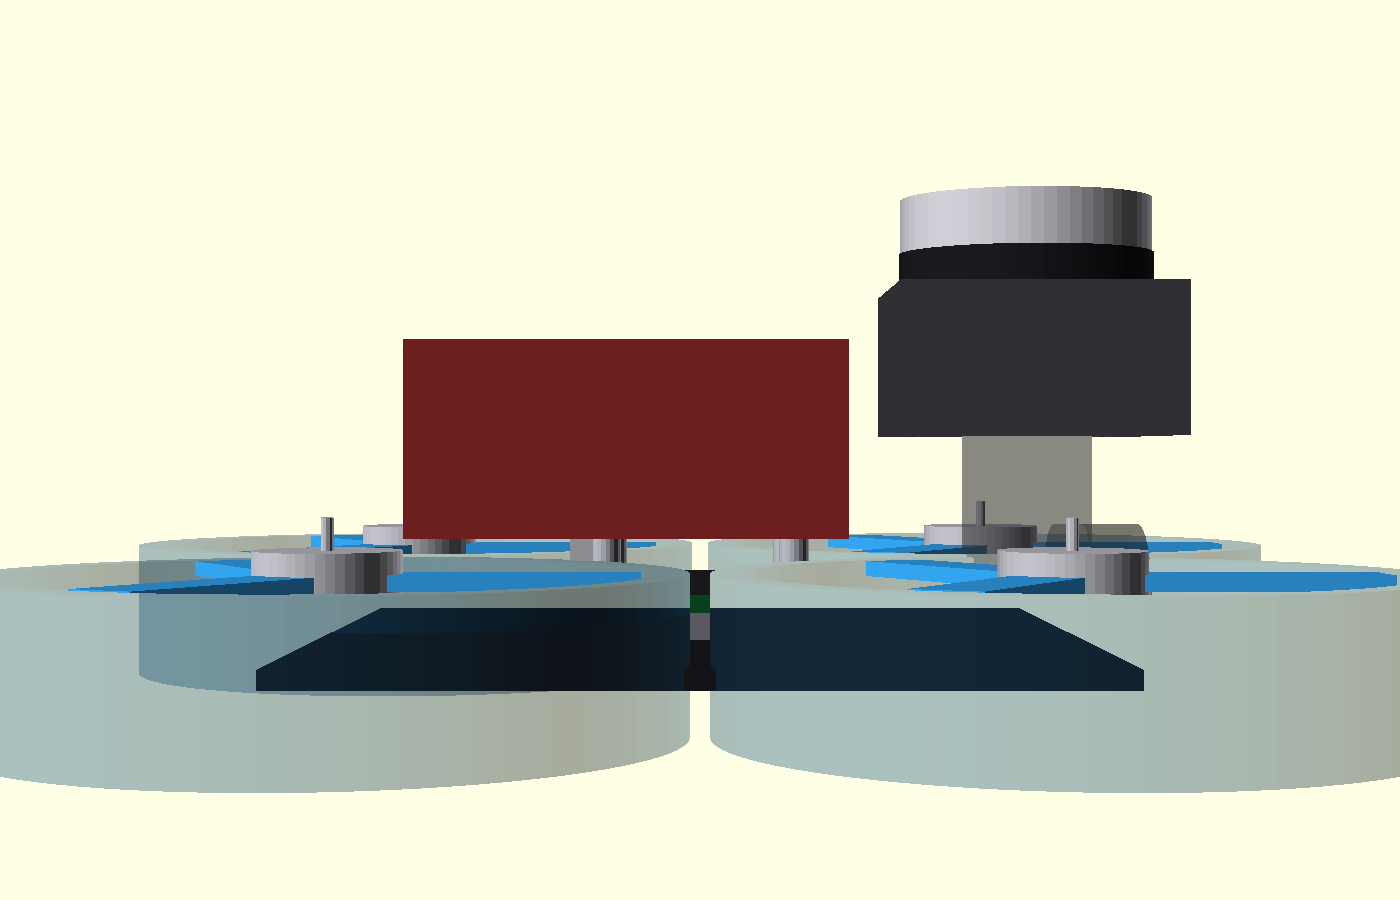
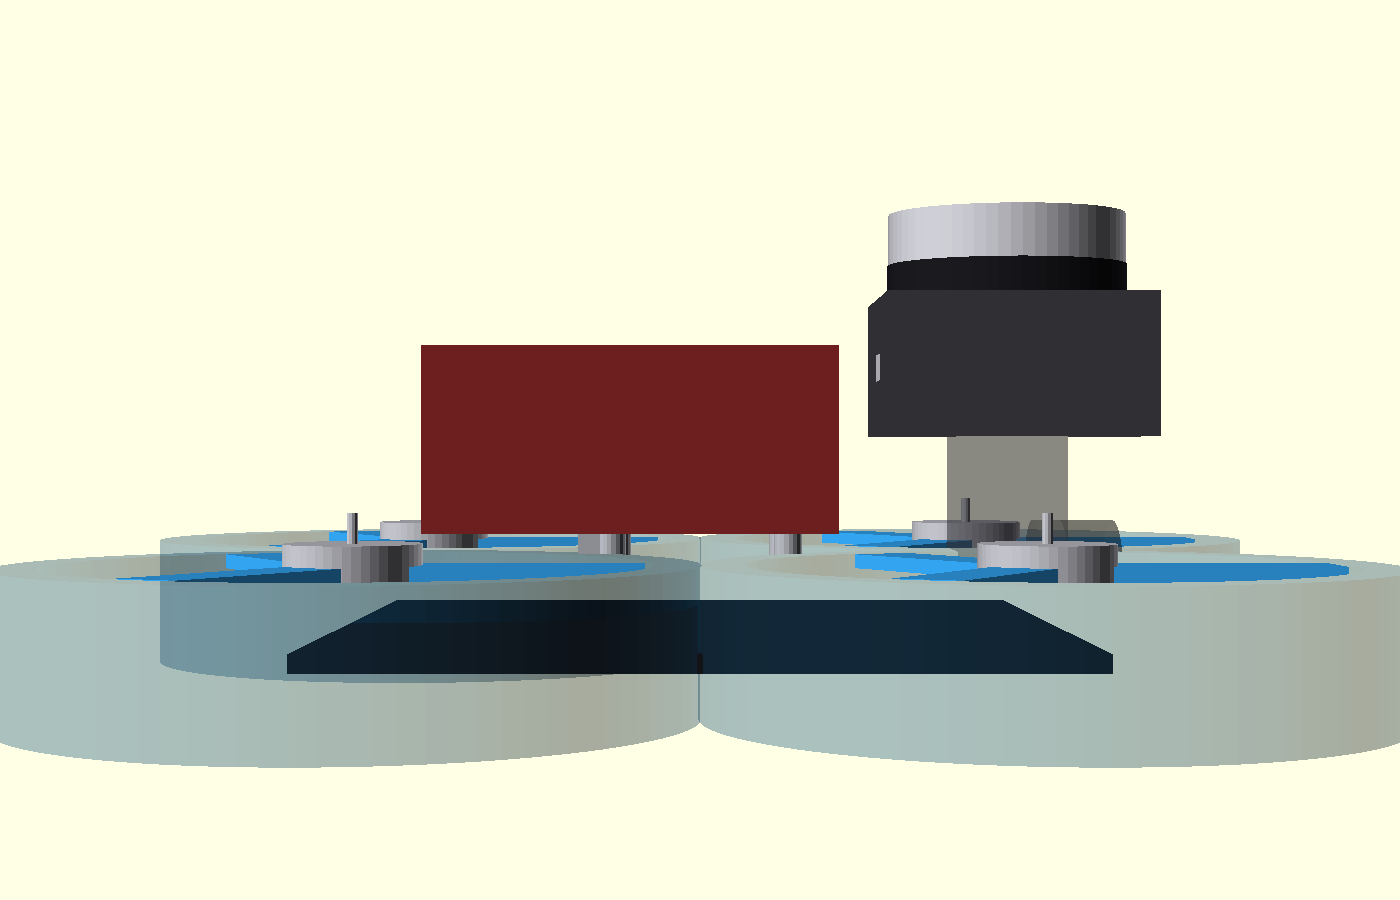
feat: take the frame's real mounting patterns from GEPRC
The frame was the last big guess in the model. GEPRC's own V3 page gives the
patterns: 128 mm wheelbase, 2.5 mm carbon, FC on 25.5 x 25.5, motors on 9 x 9,
camera on 20 mm, VTX on either 20 x 20 or 25.5 x 25.5, and 78 g plus or minus 2.
That last pair matters - the EMAX Wyvern Link's 25.5 mm pattern fits the frame
as sold, so the video unit needs no adapter.

It also confirms this morning's wheelbase change was right, which was worth
checking because a retailer listing said 126 mm. That listing is for the older
GEP-CL30, sold under a near-identical name with 126 mm between motors, 2.0 mm
plates and a 62.6 g frame. Written into the parts file so the two are not mixed
again.

Ducts stay an estimate because GEPRC publish none for the V3, but they are no
longer invented: the older sheet gives a 79 mm inner diameter and an overall
180 x 180 mm, and both frames swing the same 3 inch propeller, so the outer
diameter follows as 91 mm from that width. Marked as an estimate all the same.

Claude-Session: https://claude.ai/code/session_01CEsLBAvyJXgmTJE1gBdUuK

Changed region(s): [[0.0, 0.1867, 1.0, 0.9022]]

diff --git a/spec/realna_stavba_dronu/05_cad_dily.md b/spec/realna_stavba_dronu/05_cad_dily.md
@@ -24,9 +24,13 @@ rozumné bloky.
 
 | Díl | Rozměry | Uchycení | Zdroj |
 | --- | --- | --- | --- |
-| Rozvor | 128 mm mezi protilehlými motory | - | GEPRC |
-| Karbonová deska | tloušťka 2.5 mm | - | prodejce |
-| Motor GEPRC SPEEDX2 1404 | ⌀18.2 × 13.8 mm, hřídel ⌀1.5 mm, vývody 160 mm | dle 1404 standardu, neověřeno | vendor |
+| Rozvor | 128 mm mezi protilehlými motory | - | **GEPRC, stránka rámu V3** |
+| Karbonová deska | tloušťka 2.5 mm | - | GEPRC V3 |
+| Rám - uchycení FC | - | 25.5 × 25.5 mm | GEPRC V3 |
+| Rám - uchycení VTX | - | **20 × 20 mm i 25.5 × 25.5 mm** | GEPRC V3 |
+| Rám - uchycení motoru | - | **9 × 9 mm** | GEPRC V3 |
+| Rám - uchycení kamery | - | 20 mm | GEPRC V3 |
+| Motor GEPRC SPEEDX2 1404 | ⌀18.2 × 13.8 mm, hřídel ⌀1.5 mm, vývody 160 mm | 9 × 9 mm, viz rám | vendor |
 | Vrtule HQ DT76MMX3 V2 | ⌀76 mm, 3 listy | náboj na ⌀1.5 mm hřídel | vendor |
 | FC MicoAir H743 V2 45A AIO | 36 × 36 × 8 mm | **25.5 × 25.5 mm** | vendor |
 | RX SpeedyBee ELRS Nano | 10.4 × 18.4 mm | lepený/stahovací | vendor |
@@ -45,7 +49,7 @@ datasheetu nebo změřit**, až díly dorazí:
 | Díl | Co chybí | Kde to vzít |
 | --- | --- | --- |
 | **EMAX Wyvern Link Alpha** | rozměr desky (uchycení 25.5 × 25.5 je známé), rozměr kamerového modulu, vyložení objektivu | manuál EMAX; objektiv je 19 mm |
-| Rám GEP-CL30 V3 | vnitřní a vnější průměr ductu, výška ductu, obrys spodní desky, rozmístění stojin, prostor pod kanopou | výkres GEPRC, nebo změřit |
+| Rám GEP-CL30 V3 | vnitřní a vnější průměr ductu, výška ductu, obrys spodní desky, rozmístění stojin, prostor pod kanopou | výkres GEPRC, nebo změřit; V3 stránka je neuvádí |
 | Motor 1404 | rozteč montážních děr (obvykle 9 × 9 mm u 1404, neověřeno) | datasheet |
 | MTF-02P | poloha a průměr montážních děr | MicoAir |
 
@@ -54,6 +58,18 @@ deska jsou to nejdůležitější, co zbývá dohledat**. LD06 už dohledaný je
 rozměry, rozteče i výška okna jsou v tabulce výš, z montážního výkresu
 v datasheetu. Ten výkres je v PDF jako obrázek, takže z něj text nevytáhne -
 stránku je potřeba vyrenderovat a přečíst očima.
+
+## Pozor na záměnu V1 a V3
+
+Prodejci vedou pod jménem „GEP-CL30" i **starší rám**, a jeho čísla jsou jiná:
+rozvor **126 mm**, desky 2.0 mm nahoře i dole a 3.0 mm ramena, hmotnost 62.6 g,
+celkově 180 × 180 × 38 mm a **vnitřní průměr ductu 79 mm**.
+
+Pro V3 platí čísla z tabulky výš, tedy rozvor 128 mm, desky 2.5 mm a 78 g. Ta
+jediná věc, která se ze staršího listu hodí, je **vnitřní průměr ductu 79 mm** -
+vrtule je u obou stejná 3", takže se dá převzít jako odhad, dokud GEPRC nevydá
+výkres V3. V modelu je proto duct označený jako odhad, i když to číslo odněkud
+je.
 
 ## Co model musí zodpovědět
 

diff --git a/cad_claude/README.md b/cad_claude/README.md
@@ -59,6 +59,13 @@ osazení a konektory, protože ty rozhodují o tom, co se kam vejde:
 ## Průhledné díly jsou odhady
 
 Co je průsvitné, není měřené: ducty, kanopa, deska Wyvernu a stožár lidaru.
+Ducty jsou nejblíž pravdě z těch odhadů - vnitřní průměr 79 mm je z listu
+staršího rámu a vnější 91 mm vychází z jeho celkové šířky 180 mm. GEPRC
+geometrii ductu pro V3 nezveřejňuje.
+
+Ověřené je naopak celé uchycení: rozvor 128 mm, desky 2.5 mm, FC 25.5 × 25.5,
+motory 9 × 9, kamera 20 mm a VTX buď 20 × 20, nebo 25.5 × 25.5 - takže Wyvern
+Link se svými 25.5 na rám sedí.
 
 **LD06 už odhad není.** Je podle montážního výkresu z datasheetu: 38.59 × 38.59
 × 33.30 mm, rotující hlava ⌀35.29 × 12.60, rozteče 28.20 × 28.20 s dírami ⌀2.5,
